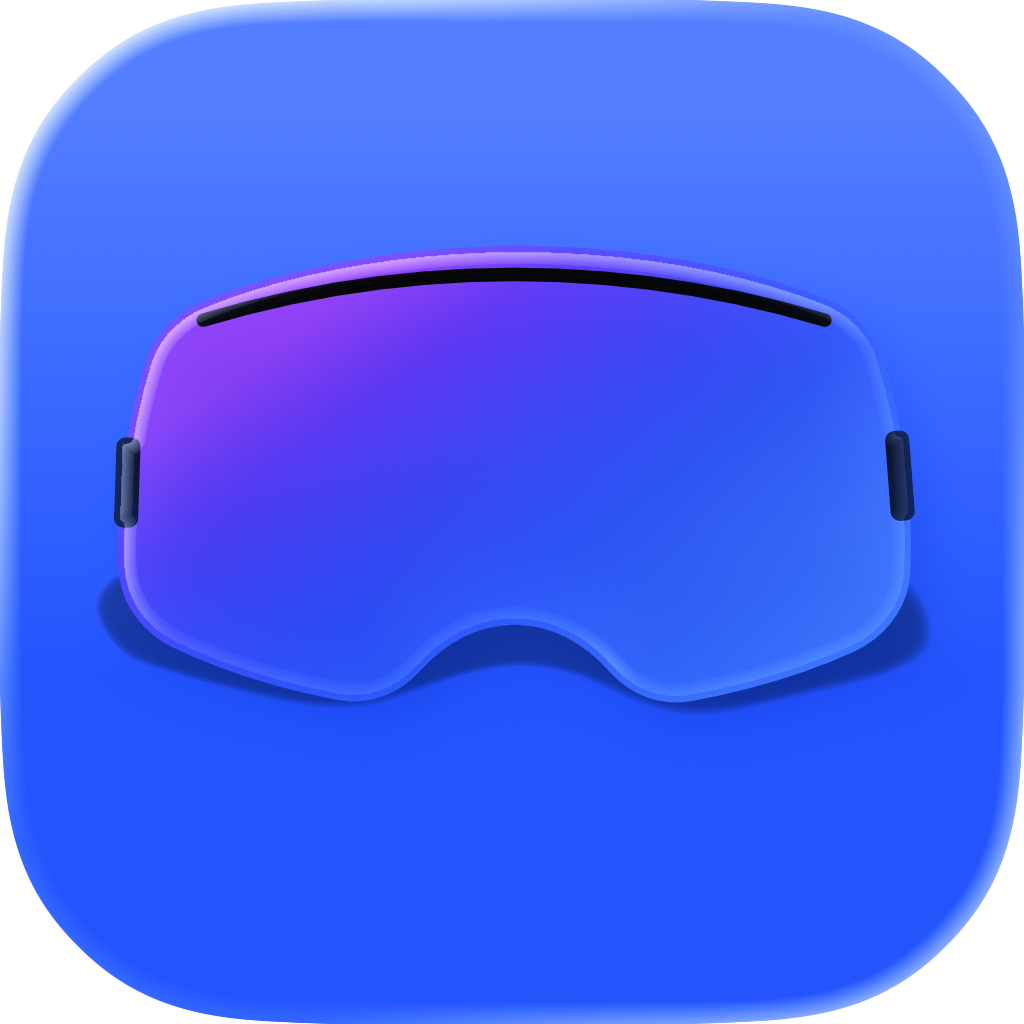
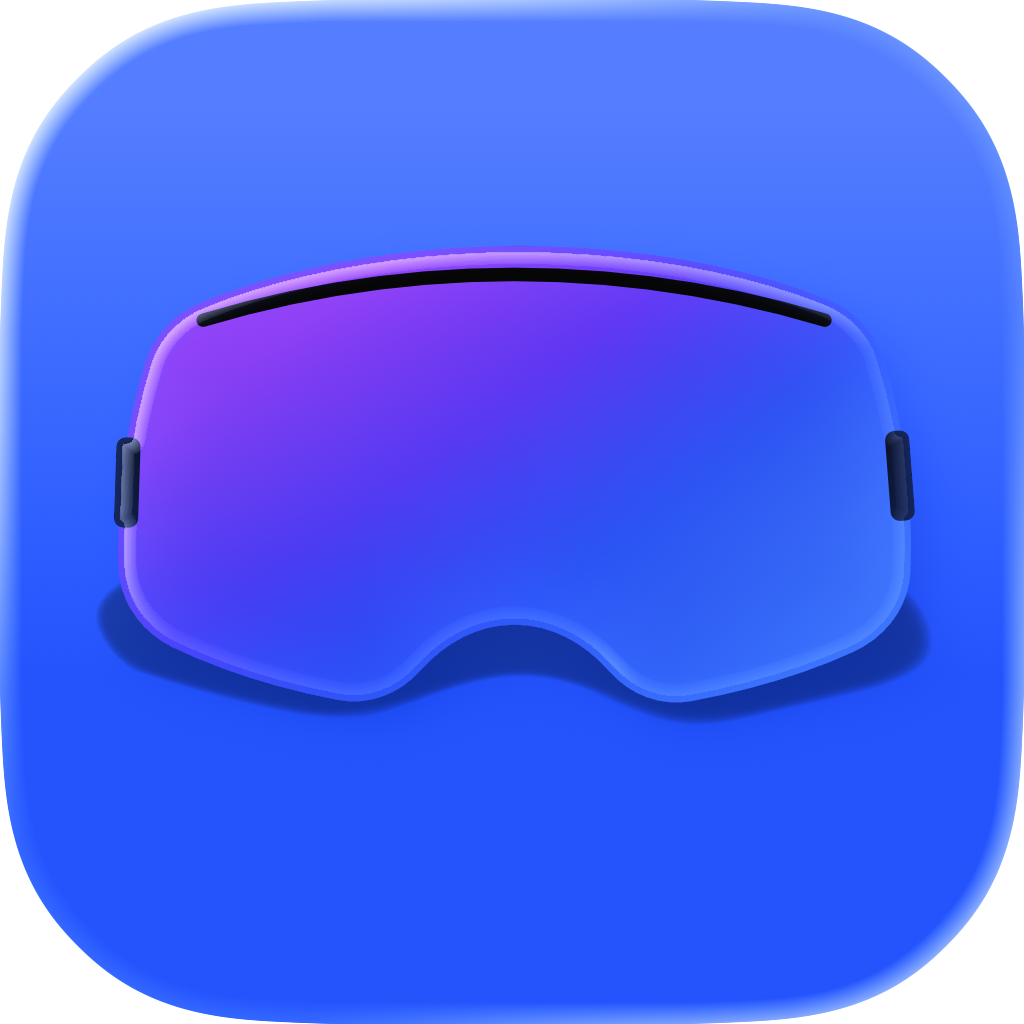
Remove stale MailMoi redirects

diff --git a/HANDOFF.md b/HANDOFF.md
@@ -1,63 +1,36 @@
 # Handoff
 
 ## Branch
-- `main`
+- `codex/remove-legacy-mailmoi-pages`
 
 ## Last Pushed
+- `8f273da` `Improve text wrapping defaults`
+- `b760d70` `Remove migrated SendMoi pages`
+- `ea9ccfd` `Rename MailMoi site paths to SendMoi with redirects`
 - `fa259d6` `Polish SendMoi marketing page and launch-state badges`
 - `a5f7106` `Tighten mobile topper responsiveness`
 - `4f0247e` `Polish mobile Figma layout and nav`
-- `30e9b83` `Refresh OG image and bump asset versions`
-- `89f4711` `Add configurable site URL metadata switch`
 
 ## Current Focus
-- SendMoi standalone marketing page polish under `/sendmoi/`
-- Mobile rhythm and annotation placement tuning for the hero badge area
-- Temporary launch-state App Store treatment (`Coming soon`) until live links are available
-- Local development workflow improvements (live reload + dynamic `.local` host detection)
-- Homepage typography polish for multi-line headings and body copy wrapping
+- Homepage portfolio maintenance on top of `main`
+- Remove leftover `/mailmoi/*` redirect pages now that standalone SendMoi pages are gone
+- Keep docs aligned with the current homepage-only SendMoi case study setup
+- Refresh the SendMoi icon asset used in the homepage rail and mobile nav
 
 ## What Changed
-- Built and iterated a standalone `/sendmoi/` marketing page with:
-  - responsive two-column hero (copy + device video)
-  - system-driven light/dark mode with manual toggle persistence
-  - concise feature grid using paired light/dark feature images from `assets/images/sendmoi/features/`
-  - centered utility footer with legal links and support email
-- Added and refined temporary App Store launch-state treatment:
-  - disabled badge links (`aria-disabled`, no pointer interaction)
-  - sketch-style `Coming soon` overlay (circle + text) sourced from user SVG assets
-  - simplified badge source paths to flat files in `assets/images/sendmoi/app-store-badges/`
-- Tuned mobile styling on `/sendmoi/`:
-  - tighter hero spacing and typography rhythm
-  - better badge readability and disabled-state feel
-  - annotation placement adjusted to sit closer to badges on narrow viewports
-- Updated hero video behavior on `/sendmoi/`:
-  - honors `prefers-reduced-motion` (no autoplay when reduced motion is requested)
-  - click/keyboard toggles play and pause
-  - paused state visibly dims the video
-- Added media/assets used by the marketing page:
-  - app icon
-  - App Store badge lockups (flat asset structure)
-  - hero demo videos
-  - coming-soon SVG overlays
-- Added/updated SendMoi utility pages and homepage references:
-  - `sendmoi/privacy/index.html`
-  - `sendmoi/terms/index.html`
-  - homepage SendMoi case-study section in `index.html`
-  - added legacy route redirects so `/mailmoi/`, `/mailmoi/privacy/`, `/mailmoi/terms/`, and `/mailmoi/accessibility/` forward to `/sendmoi/*`
-- Added BrowserSync live-reload local dev target:
-  - `make dev-live` for auto-refresh on HTML/CSS/JS edits
-  - explicit Node runtime guard/help text for older Node 14 setups (`node:path` support)
-- Updated local URL host detection in Make targets to derive `<this-mac>.local` from macOS `LocalHostName` automatically across machines.
-- Added shared text wrapping rules in `assets/css/styles.css`:
-  - `text-wrap: balance` for headings (`h1`-`h6`)
-  - `text-wrap: pretty` for paragraphs and list items
+- `main` no longer contains standalone `sendmoi/index.html`, `sendmoi/privacy/index.html`, `sendmoi/terms/index.html`, or `sendmoi/accessibility/index.html`.
+- The homepage still includes a SendMoi case-study section in `index.html` and uses assets from `assets/images/sendmoi/`.
+- This branch removes the leftover `mailmoi/*` HTML redirect pages that still pointed at the deleted `/sendmoi/*` routes:
+  - `mailmoi/index.html`
+  - `mailmoi/privacy/index.html`
+  - `mailmoi/terms/index.html`
+  - `mailmoi/accessibility/index.html`
+- Refreshed `assets/images/sendmoi/app-icon.png`, which is referenced by the homepage case-study rail and mobile section nav.
+- Updated `README.md` so it describes the current SendMoi setup accurately as a homepage case study instead of standalone site pages.
 
 ## Open Items
-- Replace temporary App Store `href="#"` targets with real iOS/macOS App Store URLs at launch time.
-- Remove the temporary `store-actions--coming-soon` overlays once the app is live.
-- Run final visual QA on `/sendmoi/` in iPhone Safari (annotation placement and badge readability) after cache-clear/hard refresh.
-- Optionally prune unused temporary SVG files (`coming-soon-note.svg` and `*-stroke.svg`) if they are no longer needed.
+- Confirm there are no external dependencies that still rely on the deleted `/mailmoi/*` redirect pages.
+- If the refreshed SendMoi app icon needs wider rollout, sync any downstream/icon-export sources that are not stored in this repo.
 
 ## Local Run
 - Network + localhost:
@@ -69,7 +42,7 @@
 
 ## Resume Checklist
 1. `git fetch --all`
-2. `git checkout main`
+2. `git checkout codex/remove-legacy-mailmoi-pages`
 3. `git pull --ff-only`
 4. `make`
-5. Validate `/sendmoi/` in desktop and iPhone Safari, then wire live App Store links when available
+5. Validate the homepage SendMoi case-study nav/icon treatment and confirm no `mailmoi` route references remain

diff --git a/README.md b/README.md
@@ -50,20 +50,12 @@ That binds to localhost only.
 
 `make dev-local` also auto-selects the next available port when the requested one is already in use.
 
-## SendMoi pages
+## SendMoi case study
 
-- `/sendmoi/` is the standalone SendMoi marketing page (system light/dark, hero product video, feature grid, and temporary `Coming soon` App Store treatment).
-- `/sendmoi/privacy/` is the SendMoi privacy policy page.
-- `/sendmoi/terms/` is the SendMoi terms page.
-- `/sendmoi/accessibility/` is the SendMoi accessibility statement page.
-- The homepage `index.html` also includes a SendMoi case-study section after the `Resy.com Consumer Website` block.
-
-## SendMoi launch-state notes
-
-- App Store badges on `/sendmoi/` are intentionally disabled and overlaid with hand-drawn `Coming soon` SVG assets.
-- When launch links are ready, remove the `store-actions--coming-soon` treatment in `sendmoi/index.html` and replace `href="#"` on badge links with the real App Store URLs.
-- SendMoi feature art lives in `assets/images/sendmoi/features/` with paired `*-Light.png` / `*-Dark.png` variants.
-- The hero video on `/sendmoi/` respects `prefers-reduced-motion`, supports click/keyboard play-pause toggling, and dims while paused.
+- The homepage `index.html` includes a SendMoi case-study section after the `Resy.com Consumer Website` block.
+- SendMoi imagery for that section lives under `assets/images/sendmoi/`.
+- `assets/images/sendmoi/app-icon.png` is used for the desktop rail icon and mobile case-study nav entry.
+- This repo no longer serves standalone `/sendmoi/*` marketing or policy pages.
 
 ## Current mobile behavior
 
